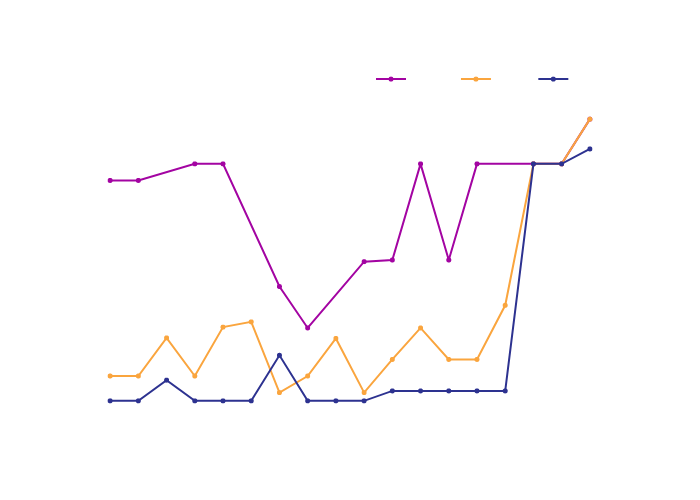
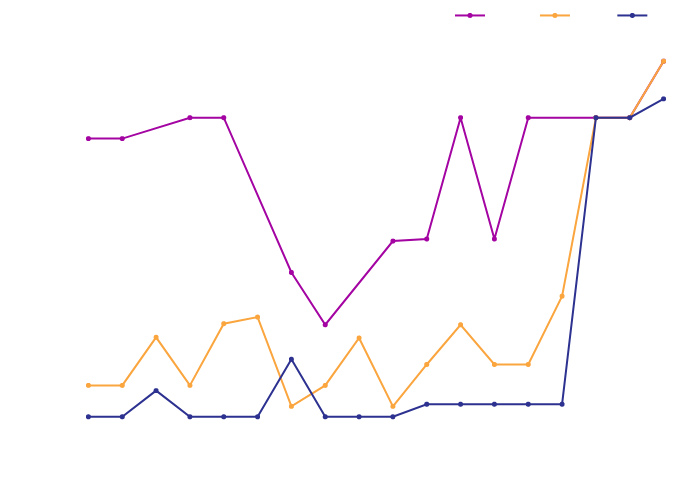
edited sizing and axes

diff --git a/expedia-analysis.py b/expedia-analysis.py
@@ -31,8 +31,9 @@ fig = go.Figure(data=[go.Table(
 ])
 # set the title
 fig.update_layout(title='', font=dict(
-    color='white', family='Montserrat Regular'), plot_bgcolor='rgba(0,0,0,0)', 
-    paper_bgcolor='rgba(0,0,0,0)')
+    color='white', family='Montserrat Regular'), plot_bgcolor='rgba(0,0,0,0)',
+    paper_bgcolor='rgba(0,0,0,0)', autosize=False, width=410, height=91, margin={'l': 1, 'r': 1, 't': 1, 'b': 1},
+                  )
 # show the plot
 # fig.show()
 pio.write_image(fig, 'avgpricebyairline.png')
@@ -55,7 +56,7 @@ for airline in df_grouped['Airline'].unique():
                              line=dict(color=colors[airline]),
                              marker=dict(color=colors[airline], size=5)))
 # set the title and axis labels
-fig.update_layout(title='',
+fig.update_layout(title='', margin={'l': 1, 'r': 1, 't': 1, 'b': 1},
                   xaxis_title='Date', yaxis_title='Average Price (USD)',
                   legend=dict(orientation="h", yanchor="bottom", y=1.02,
                               xanchor="right", x=1, bgcolor='rgba(0,0,0,0)'),
@@ -75,33 +76,58 @@ pio.write_image(fig, 'avgpricebyairlinebyday.png')
 # Flight Prices by Departure Time and Airline
 # convert the 'Time' column to datetime format
 df['Time'] = pd.to_datetime(df['Time'], format='%I:%M%p')
+
 # create a dictionary to map airlines to numerical values
 airline_dict = {'Alaska': ' #A304A2', 'Delta': '#faa53e', 'United': '#2d3290'}
 # map the 'Airline' column to the corresponding color using the dictionary
 df['Color'] = df['Airline'].map(airline_dict)
 # create a Plotly scatter plot with the price and departure time of each flight
-fig = go.Figure(data=go.Scatter(
-    x=df['Time'],
-    y=df['Price'],
-    mode='markers',
-    marker=dict(
-        size=8,
-        color=df['Color'],
-    ),
-    # add airline and time info to the hover text
-    text=df['Airline'] + ', ' + df['Time'].dt.strftime('%I:%M%p')
-))
+fig = go.Figure()
+for airline, color in airline_dict.items():
+    airline_df = df[df['Airline'] == airline]
+    fig.add_trace(
+        go.Scatter(
+            x=airline_df['Time'],
+            y=airline_df['Price'],
+            mode='markers',
+            marker=dict(
+                size=8,
+                color=color,
+            ),
+            name=airline,  # add name for legend
+            # add airline and time info to the hover text
+            text=airline_df['Airline'] + ', ' + \
+            airline_df['Time'].dt.strftime('%I:%M%p')
+        )
+    )
 # set the axis labels and title
 fig.update_layout(
+    margin={'l': 1, 'r': 1, 't': 1, 'b': 1},
     xaxis_title='Departure Time',
     yaxis_title='Price (USD)',
     title='',
     plot_bgcolor='rgba(0,0,0,0)', paper_bgcolor='rgba(0,0,0,0)',
     font=dict(color='white', family='Montserrat Regular'),
-    xaxis=dict(showgrid=False, ticks='inside',
-               tickwidth=1, ticklen=5, tickcolor='white', linecolor='white'),
+    xaxis=dict(
+        tickformat='%-I:%M%p',
+        showgrid=False,
+        ticks='inside',
+        tickwidth=1,
+        ticklen=5,
+        tickcolor='white',
+        linecolor='white'
+    ),
     yaxis=dict(showgrid=False, ticks='inside',
-               tickwidth=1, ticklen=5, tickcolor='white', linecolor='white'))
+               tickwidth=1, ticklen=5, tickcolor='white', linecolor='white'),
+    # add legend
+    legend=dict(
+        orientation='h',
+        yanchor='bottom',
+        y=1.02,
+        xanchor='right',
+        x=1
+    )
+)
 # show the plot
 # fig.show()
 pio.write_image(fig, 'avgpricebyairlinebytime.png')

diff --git a/tempCodeRunnerFile.py b/tempCodeRunnerFile.py
@@ -1,1 +1,1 @@
-io.write_json(fig, 'avgpricebyairlinebyday.json')
+  margin={'l': 0, 'r': 0, 't': 0, 'b': 0},
